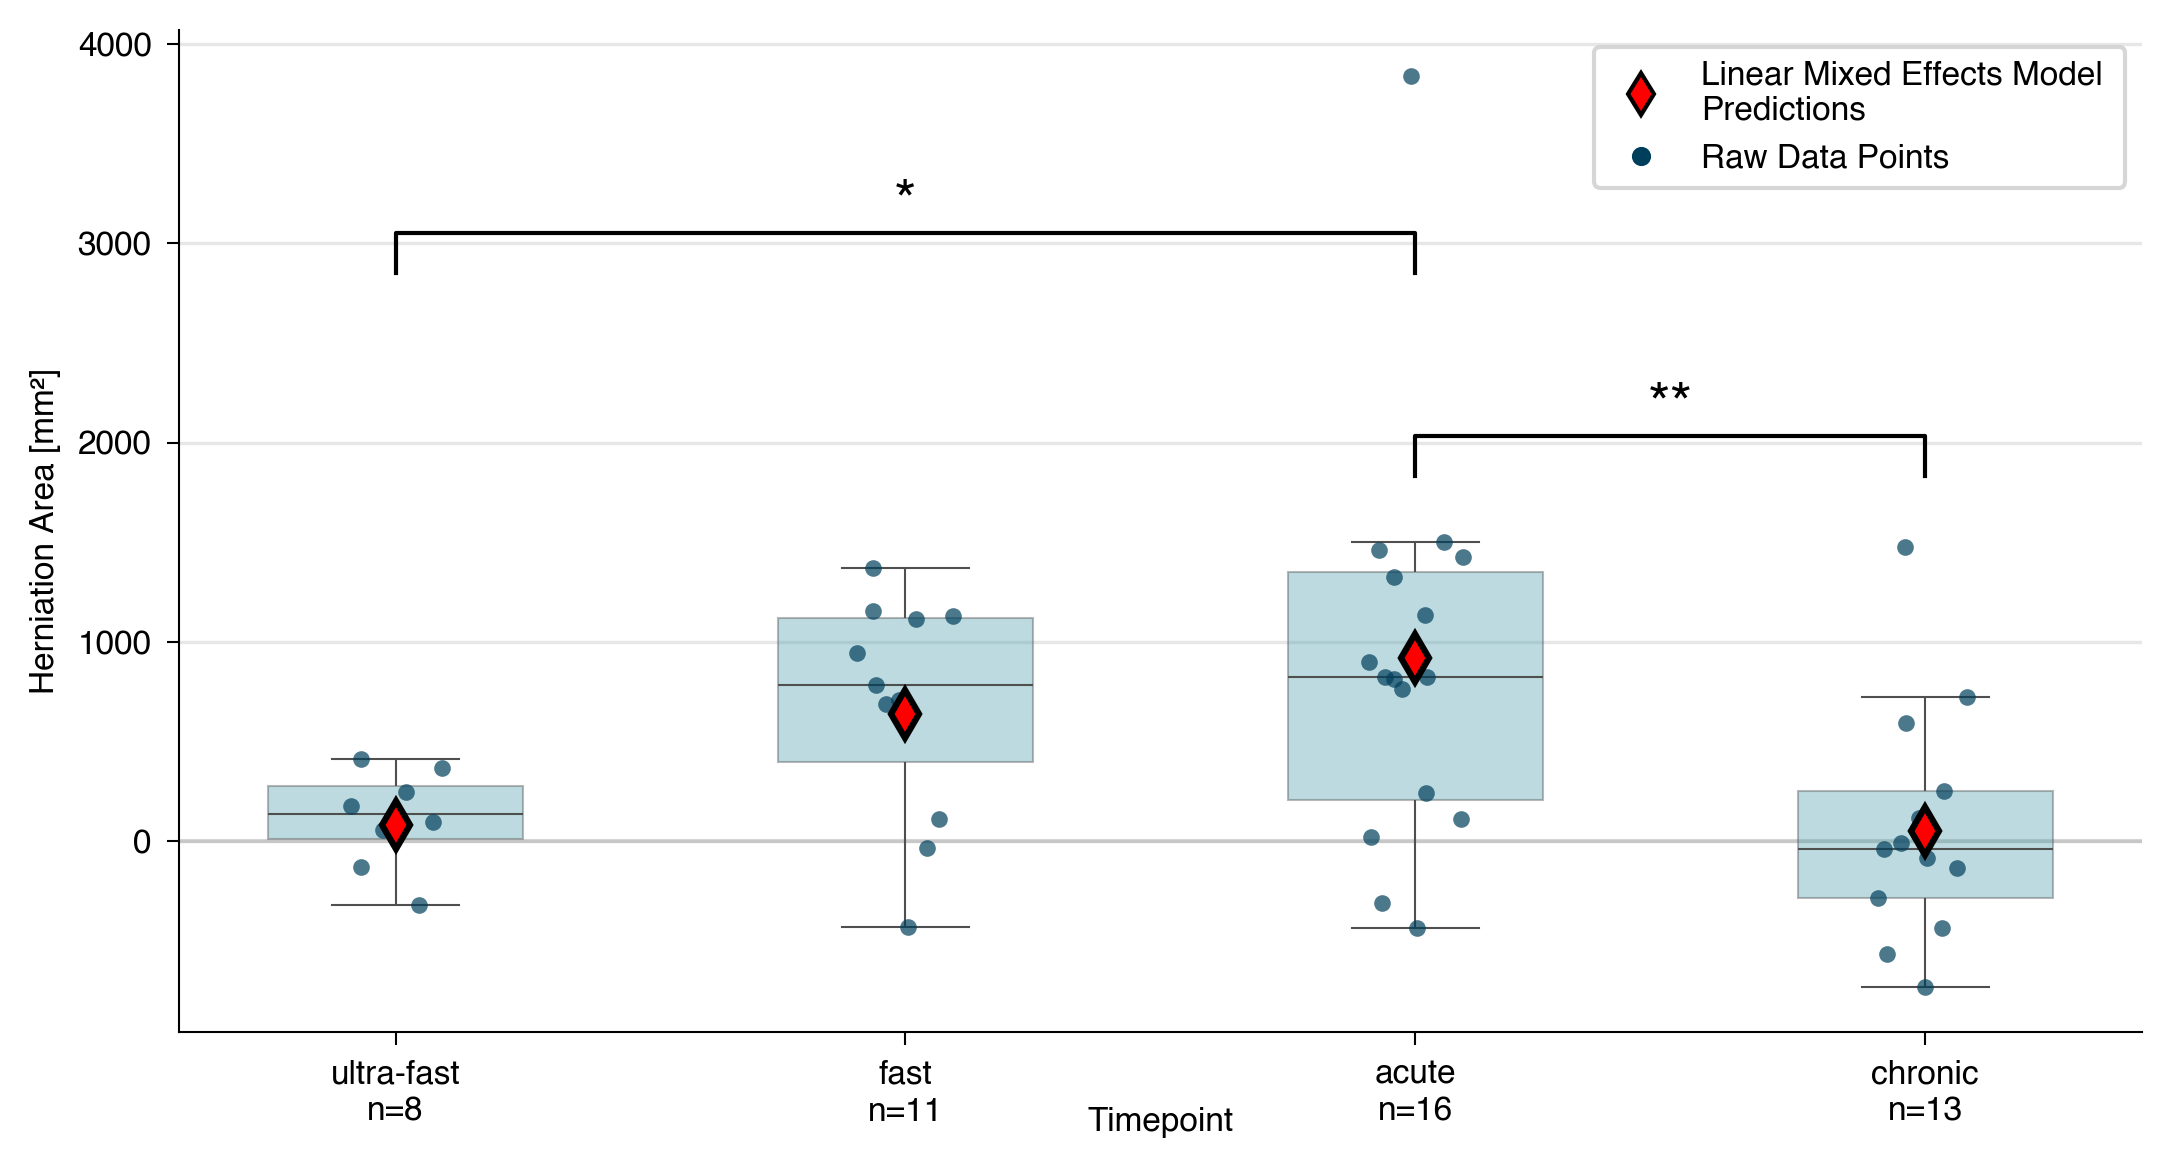
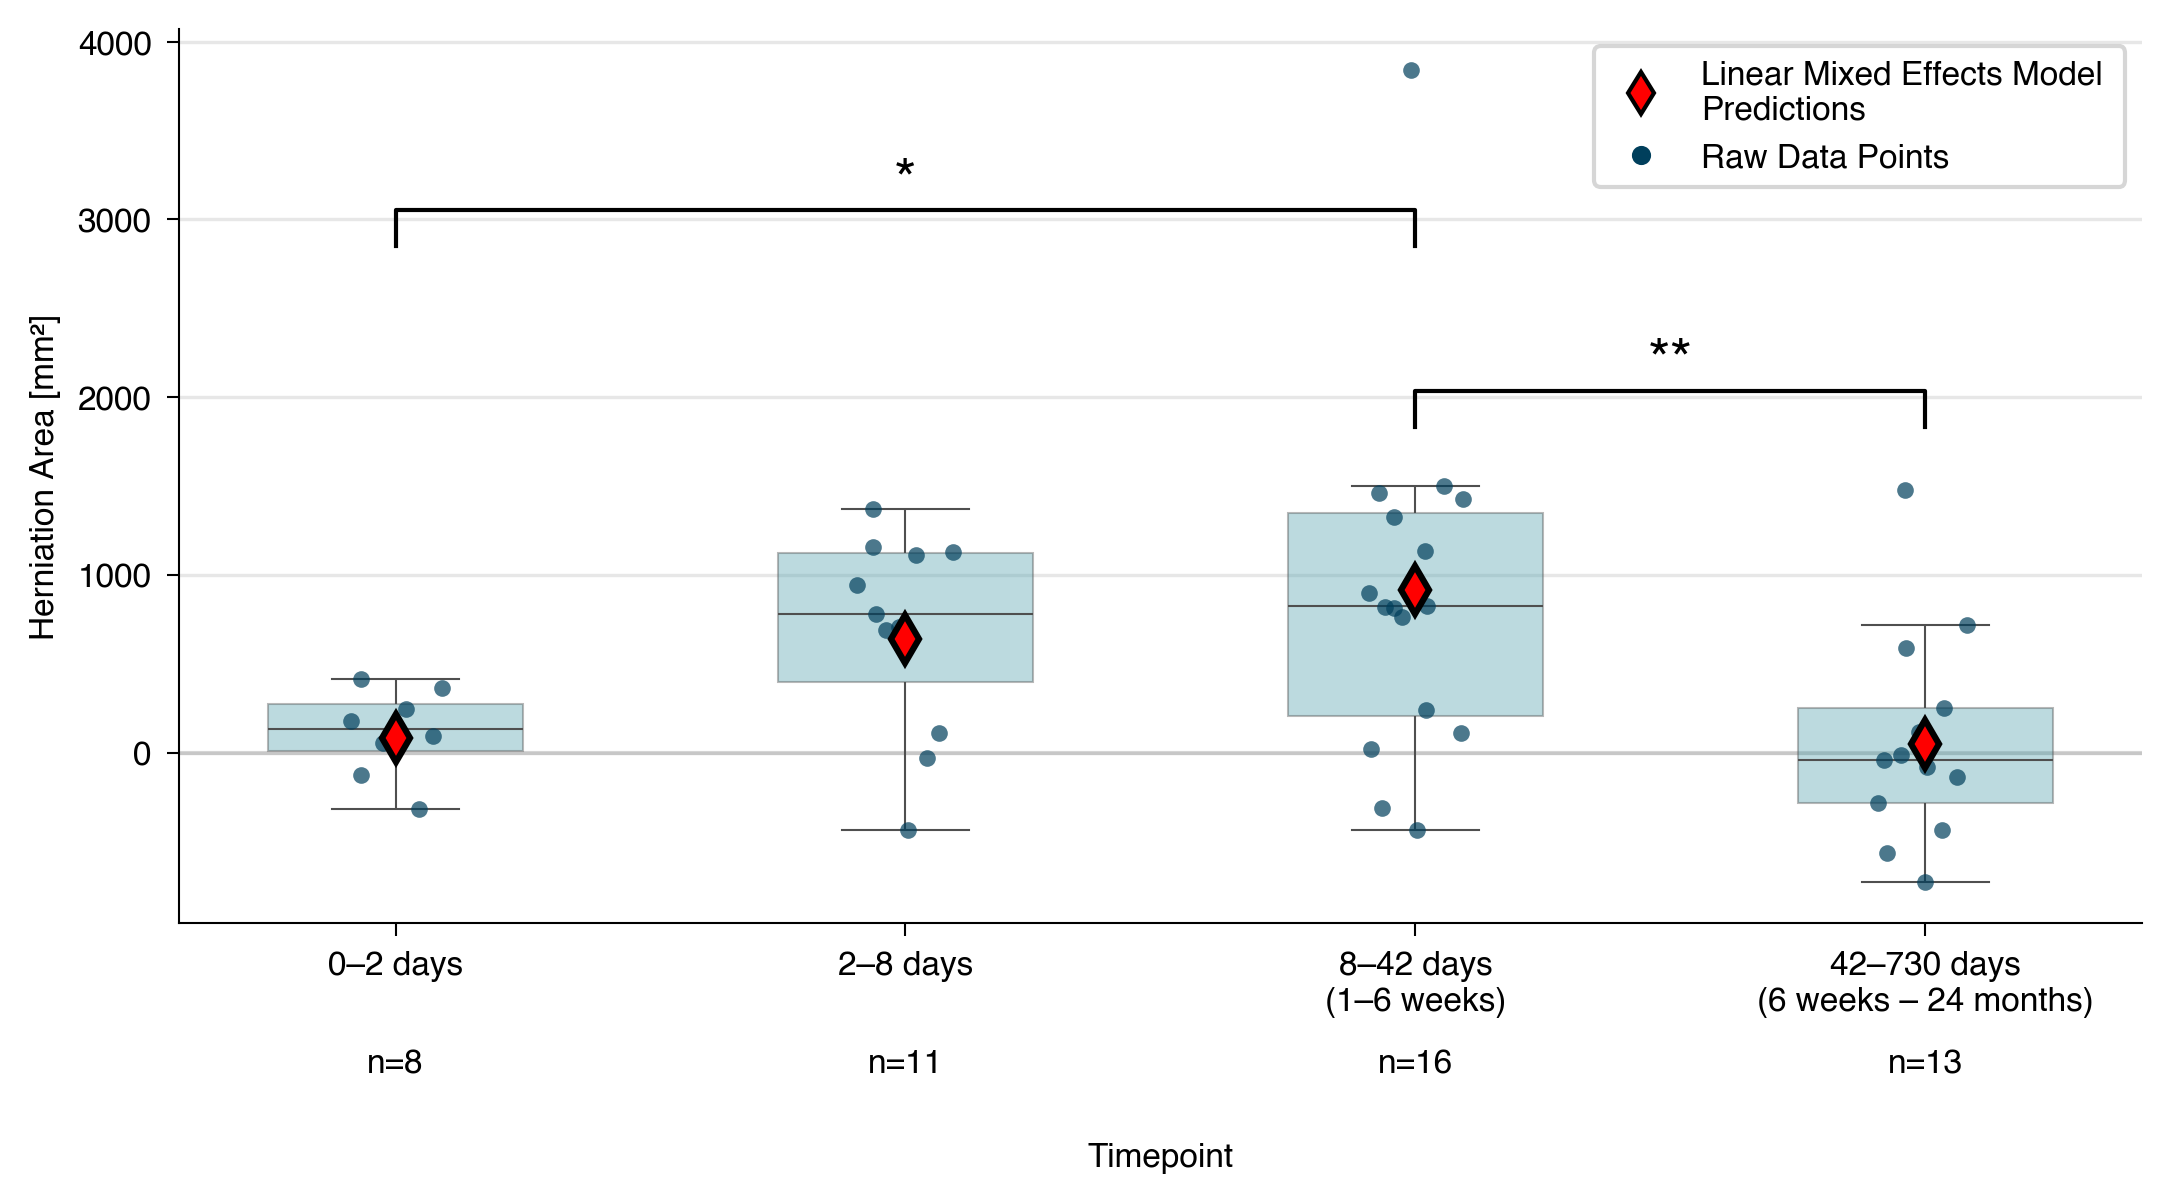
update plot for paper

diff --git a/Image_Processing_Scripts/stats_main.py b/Image_Processing_Scripts/stats_main.py
@@ -1251,14 +1251,17 @@ def mixed_effect_boxplot_paper(df, result,
     ax.spines['top'].set_visible(False)
     ax.spines['right'].set_visible(False)
 
-    ax.set_xlabel('Timepoint', fontsize=8)
     ax.set_ylabel('Herniation Area [mm²]', fontsize=8)
+    ax.set_xlabel('Timepoint', fontsize=8, labelpad=30)
 
+    from matplotlib.transforms import blended_transform_factory
+    trans = blended_transform_factory(ax.transData, ax.transAxes)
     for i, tp in enumerate(plot_timepoints):
         count = len(df_filtered[df_filtered['timepoint'] == tp])
         if count > 0:
-            ax.text(i, ax.get_ylim()[0] * 1.5, f"n={count}",
-                    ha='center', va='bottom', fontsize=8)
+            ax.text(i, -0.14, f"n={count}",
+                    ha='center', va='top', fontsize=8,
+                    transform=trans)
 
     def add_significance_bracket(ax, x1, x2, y, h, text):
         ax.plot([x1, x1, x2, x2], [y, y+h, y+h, y], lw=1.0, c='black')
@@ -1271,6 +1274,14 @@ def mixed_effect_boxplot_paper(df, result,
     add_significance_bracket(ax, 2, 3, y_max * 0.45, bracket_height, sig_levels.get("chronic", ""))
 
     plt.tight_layout()
+
+    label_map = {
+        'ultra-fast': '0\u20132 days',
+        'fast':       '2\u20138 days',
+        'acute':      '8\u201342 days\n(1\u20136 weeks)',
+        'chronic':    '42\u2013730 days\n(6 weeks \u2013 24 months)',
+    }
+    ax.set_xticklabels([label_map.get(tp, tp) for tp in plot_timepoints])
 
     output_dir = "../Paper-PhD-Neuro/figures"
     os.makedirs(output_dir, exist_ok=True)
